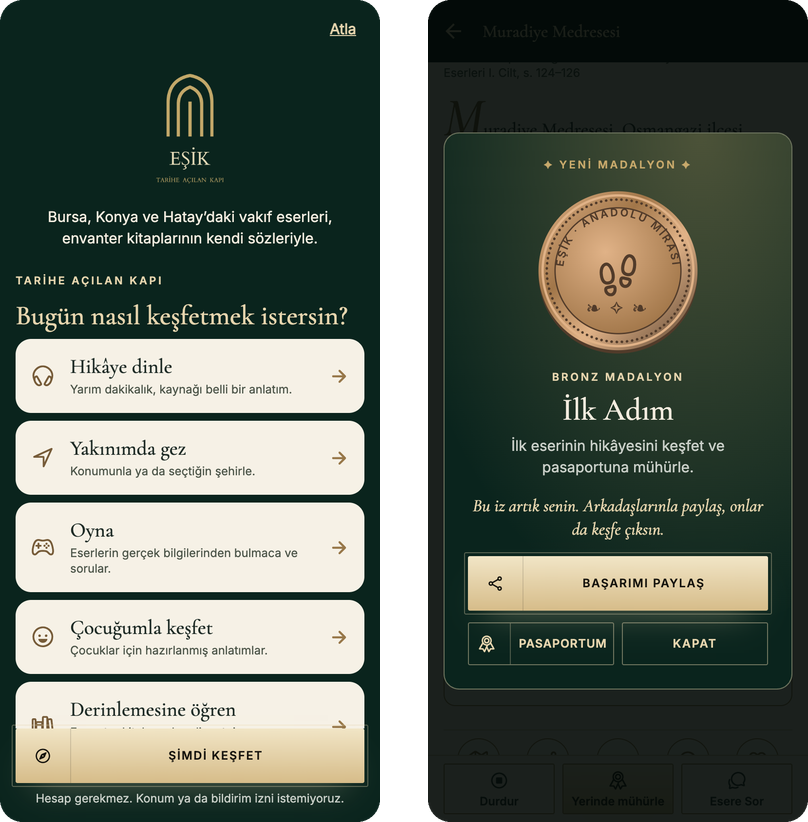
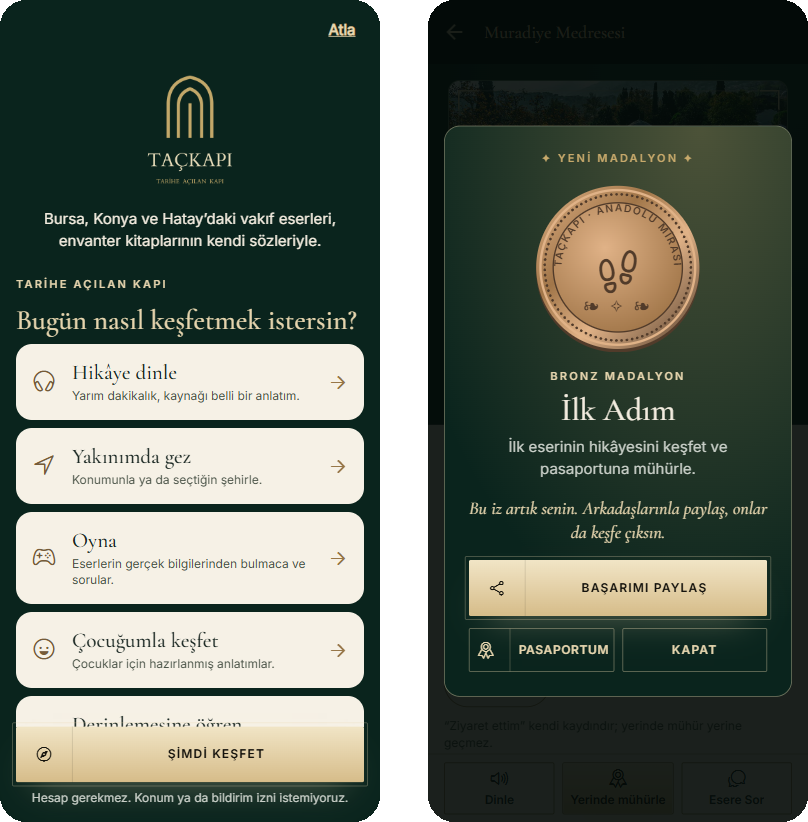
Refresh the README and its screenshots for TAÇKAPI
- Drop the internal note about the data package and point the clone
  command at this repository.
- Retake the site, mobile and admin panel screenshots so they show the
  TAÇKAPI name.
- Fit the mobile medallion's ring legend: the longer name ran off both
  ends of the arc, so the arc now spans 220 degrees with slightly smaller
  type.

diff --git a/mobile/src/components/brand/Medallion.tsx b/mobile/src/components/brand/Medallion.tsx
@@ -32,7 +32,8 @@ export function Medallion({ metal, earned, symbol, size = 96 }: { metal: CoinMet
         <RadialGradient id={`f${id}`} cx="0.4" cy="0.35" r="0.7">
           <Stop offset="0" stopColor={tone.light} /><Stop offset="1" stopColor={tone.mid} />
         </RadialGradient>
-        <Path id={`a${id}`} d="M17 50A33 33 0 0 1 83 50" />
+        {/* 220° of the r=33 ring: room for "TAÇKAPI · ANADOLU MİRASI" and its longer English legend */}
+        <Path id={`a${id}`} d="M19 61.3A33 33 0 1 1 81 61.3" />
       </Defs>
       {/* the coin's edge: a darker rim under it, then the face */}
       <Circle cx="50" cy="52" r="48" fill={tone.dark} />
@@ -40,7 +41,7 @@ export function Medallion({ metal, earned, symbol, size = 96 }: { metal: CoinMet
       <Circle cx="50" cy="50" r="45.5" fill="none" stroke={tone.light} strokeWidth="1.4" />
       <Circle cx="50" cy="50" r="43" fill="none" stroke={tone.dark} strokeWidth="1.6" strokeDasharray="0.1 3" strokeLinecap="round" />
       <Circle cx="50" cy="50" r="38" fill={`url(#f${id})`} stroke={tone.dark} strokeWidth="0.8" />
-      <SvgText fill={tone.dark} fontSize="6.4" fontFamily={fonts.sansSemi} letterSpacing="1.1">
+      <SvgText fill={tone.dark} fontSize="6" fontFamily={fonts.sansSemi} letterSpacing="0.8">
         <TextPath href={`#a${id}`} startOffset="50%" textAnchor="middle">{t('TAÇKAPI · ANADOLU MİRASI', 'TAÇKAPI · ANATOLIAN HERITAGE')}</TextPath>
       </SvgText>
     </Svg>

diff --git a/README.md b/README.md
@@ -109,8 +109,8 @@ flowchart LR
 Veritabanı, arka uç ve yapay zekâ olmadan siteyi görmek için:
 
 ```bash
-git clone https://github.com/facetint/Kok-Kod-Hackathon.git
-cd Kok-Kod-Hackathon/frontend
+git clone https://github.com/neslihand/tackapi.git
+cd tackapi/frontend
 npm install
 npm run dev
 ```
@@ -129,11 +129,6 @@ satırı boş bırakın.
 | Python | 3.10+ | Arka uç |
 | PostgreSQL | 18, `pgvector` eklentisiyle | En kolayı Docker (`pgvector/pgvector:pg18`) ya da [Postgres.app](https://postgresapp.com) |
 | Gemini API anahtarı | isteğe bağlı | Yalnızca "Esere Sor" ve yapay zekâ taslakları için ([Google AI Studio](https://aistudio.google.com/)) |
-
-> [!IMPORTANT]
-> **Veri paketi depoda yok.** Kitap metinleri, veritabanı ve fotoğraflar telifli içerik taşıdığı için git'e konmaz.
-> Tam kurulum için ekipten iki şey alınır: veritabanı yedeği **`vakif.dump`** ve fotoğraf klasörü **`media/`**
-> (yaklaşık 330 MB). İkisini de paylaşmayın ve depoya eklemeyin.
 
 ### 1. Veritabanı
 
